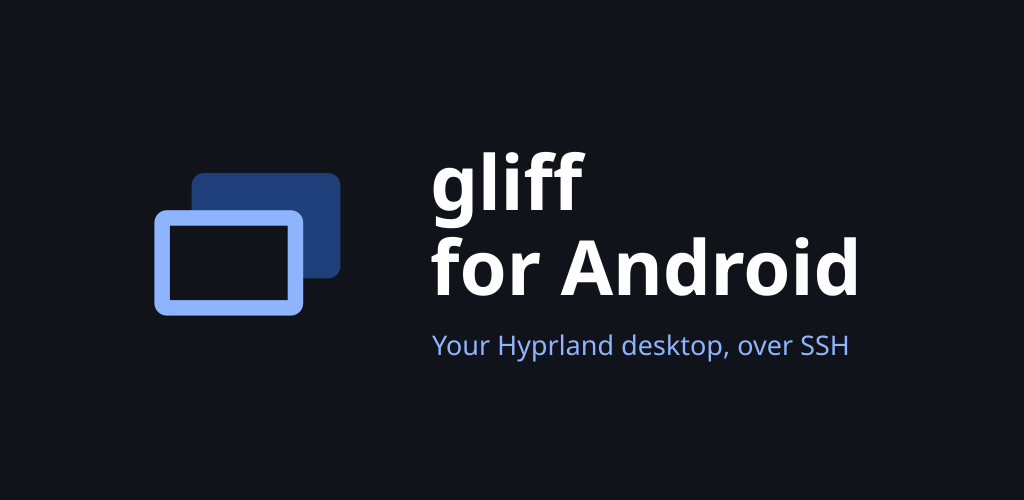
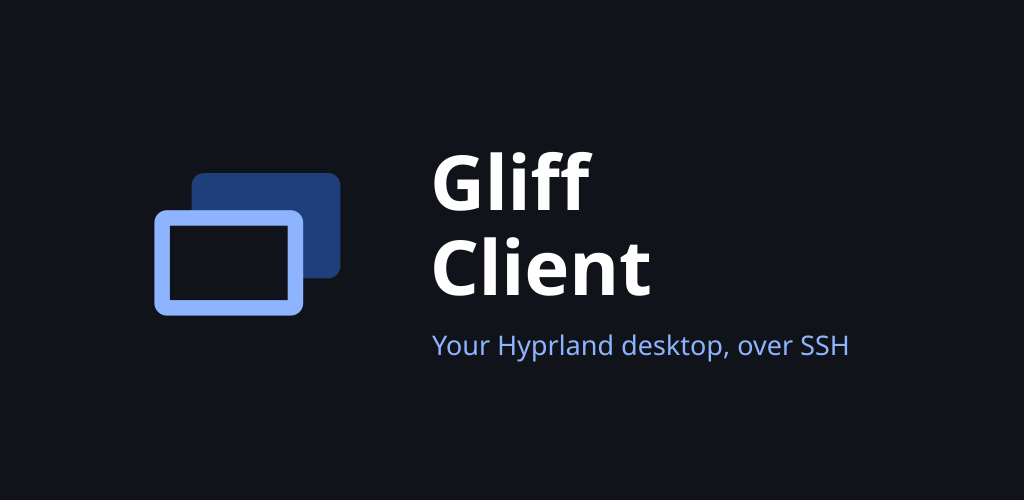
Name the store listing Gliff Client

Changed region(s): [[0.4062, 0.3, 0.8438, 0.6]]

diff --git a/store/README.md b/store/README.md
@@ -70,7 +70,7 @@ Version shown in the screenshots: commit `e2d3a26`, before any tag
    https://c4software.github.io/gliff-android/privacy-fr.html
    ```
 5. **The name.** "gliff" is the name of someone else's project. The title
-   "gliff for Android" and the closing paragraph of the description say the
+   "Gliff Client" and the closing paragraph of the description say the
    app is an independent client, which is the usual way to stay within
    Play's impersonation policy; asking the author of gliff first would be
    courteous, and would settle it.
@@ -80,7 +80,7 @@ Version shown in the screenshots: commit `e2d3a26`, before any tag
 
 ## Order of entry in the Play Console
 
-1. **Create the app**: name `gliff for Android`, default language *English
+1. **Create the app**: name `Gliff Client`, default language *English
    (United States)*, an app (not a game), free, category *Tools*.
 2. **Main store listing** (en-US): title, descriptions, icon, feature
    graphic, screenshots. Then add the **fr-FR** translation.

diff --git a/store/privacy-policy-fr.md b/store/privacy-policy-fr.md
@@ -1,10 +1,10 @@
-# Politique de confidentialité — gliff pour Android
+# Politique de confidentialité — Gliff Client
 
 Dernière mise à jour : 12 octobre 2026
 
 ## En résumé
 
-gliff pour Android ne collecte rien et ne nous envoie rien. Il n'y a ni
+Gliff Client ne collecte rien et ne nous envoie rien. Il n'y a ni
 serveur à nous, ni compte chez nous, ni mesure d'audience, ni publicité. Les
 seules machines auxquelles l'application parle sont **celles que vous ajoutez
 vous-même**, en SSH.

diff --git a/store/privacy-policy-en.md b/store/privacy-policy-en.md
@@ -1,10 +1,10 @@
-# Privacy Policy — gliff for Android
+# Privacy Policy — Gliff Client
 
 Last updated: 12 October 2026
 
 ## Summary
 
-gliff for Android collects nothing and sends nothing to us. It has no server
+Gliff Client collects nothing and sends nothing to us. It has no server
 of ours, no account of ours, no analytics and no advertising. The only
 machines it talks to are **the ones you add yourself**, over SSH.
 
